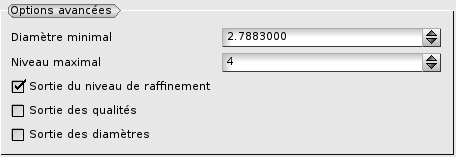
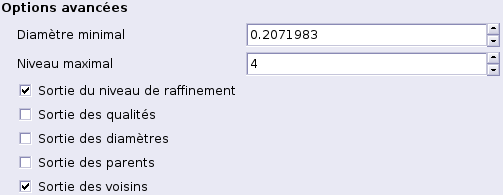
Mise à jour de la documentation

diff --git a/src/HOMARDGUI/HOMARD_msg_fr.ts b/src/HOMARDGUI/HOMARD_msg_fr.ts
@@ -436,6 +436,14 @@
         <translation>Sortie des diamètres</translation>
     </message>
     <message>
+        <source>Output of the parents</source>
+        <translation>Sortie des parents</translation>
+    </message>
+    <message>
+        <source>Output of the neighbours</source>
+        <translation>Sortie des voisins</translation>
+    </message>
+    <message>
         <source>Create an iteration</source>
         <translation>Création d&apos;une itération</translation>
     </message>

diff --git a/doc/fr/gui_create_hypothese.rst b/doc/fr/gui_create_hypothese.rst
@@ -116,7 +116,13 @@ Une première série d'options portent sur la finesse maximale de maillage que l
 
 La deuxième série d'options n'a d'intérêt que dans le cas où l'adaptation est piloté par un champ et que ce champ n'est pas défini partout dans le maillage. Cela arrive par exemple quand on construit un champ basé sur une distance dans un plan alors que le domaine est 3D : le champ ne sera pas défini sur les noeuds hors du plan. Pour de tels champs, cette option permet de préciser le comportement que l'on souhaite dans les régions où le champ n'est pas défini. Par défaut, il ne se passe rien : les mailles sont gardées telles quelles. On peut choisir les deux autres variantes : raffiner, toutes les mailles seront a priori coupées, ou déraffiner, toutes les mailles seront candidates au déraffinement.
 
-Le dernier choix porte sur des sorties supplémentaires de l'adaptation. Par défaut, aucune case n'est cochée et aucun champ n'est produit. Si l'une des cases est cochée, le fichier MED en sortie contiendra des champs supplémentaires. Le premier choix représente le niveau de raffinement de chaque maille. La convention est celle de HOMARD : une maille du maillage initial est de niveau 0, une maille issue d'un raffinement d'une maille initiale porte le niveau 1, etc. Les mailles de transition qui sont produites entre deux mailles de niveau différents, n et n+1, sont affectées du demi-niveau n+0,5. Le deuxième choix porte sur la qualité des mailles. Le troisième choix produira le diamètre des mailles.
+Le dernier choix porte sur des sorties supplémentaires de l'adaptation. Par défaut, aucune case n'est cochée et aucun champ n'est produit. Si l'une des cases est cochée, le fichier MED en sortie contiendra des champs supplémentaires.
+
+- Niveau de raffinement de chaque maille. La convention est celle de HOMARD : une maille du maillage initial est de niveau 0, une maille issue d'un raffinement d'une maille initiale porte le niveau 1, etc. Les mailles de transition qui sont produites entre deux mailles de niveau différents, n et n+1, sont affectées du demi-niveau n+0,5.
+- Qualité des mailles.
+- Diamètre des mailles.
+- Parents des mailles.
+- Voisinages des mailles de recollement pour un maillage non-conforme.
 
 .. image:: images/create_hypothese_av_1.png
    :align: center

diff --git a/doc/en/gui_create_hypothese.rst b/doc/en/gui_create_hypothese.rst
@@ -115,7 +115,13 @@ A first series of options concern the maximal sharpness of mesh which we do not 
 
 The second series of options has interest only in case the adaptation is driven by a field and in case this field is not defined everywhere in the mesh. It arrives for example when we build a field based on a distance in a plan while the domain is 3D: the field will not be defined on nodes outside the plan. For such fields, this option allows to specify the behavior which we wish in the regions where the field is not defined. By default, there is nothing: elements are kept as they are. We can choose two other variants: to refine all the elements will a priori be cut, or to unrefine all the elements will be candidate in the unrefinement.
 
-The last choice concerns an additional output of the adaptation. By default, nothing is checked and no field is produced. If at least one compartment is checked, the output file MED will contain some extra fields. The first choice represents the level of refinement of every element. The convention is the one of HOMARD: an element of the initial mesh is of level 0, an element produced by the refinement of an initial element carries the level 1, etc. The elements of transition which are produced between two different levels, n and n+1, are affected by the half-level n+0,5. The second choice is for the quality of the elements. The third choice is for the diameters of the elements.
+The last choice concerns an additional output of the adaptation. By default, nothing is checked and no field is produced. If at least one compartment is checked, the output file MED will contain some extra fields.
+
+- Level of refinement of every element. The convention is the one of HOMARD: an element of the initial mesh is of level 0, an element produced by the refinement of an initial element carries the level 1, etc. The elements of transition which are produced between two different levels, n and n+1, are affected by the half-level n+0,5.
+- Quality of the elements.
+- Diameters of the elements.
+- Parents of the elements.
+- Neighbourhood of the cells that are glued in a non-conformal mesh.
 
 .. image:: images/create_hypothese_av_1.png
    :align: center
